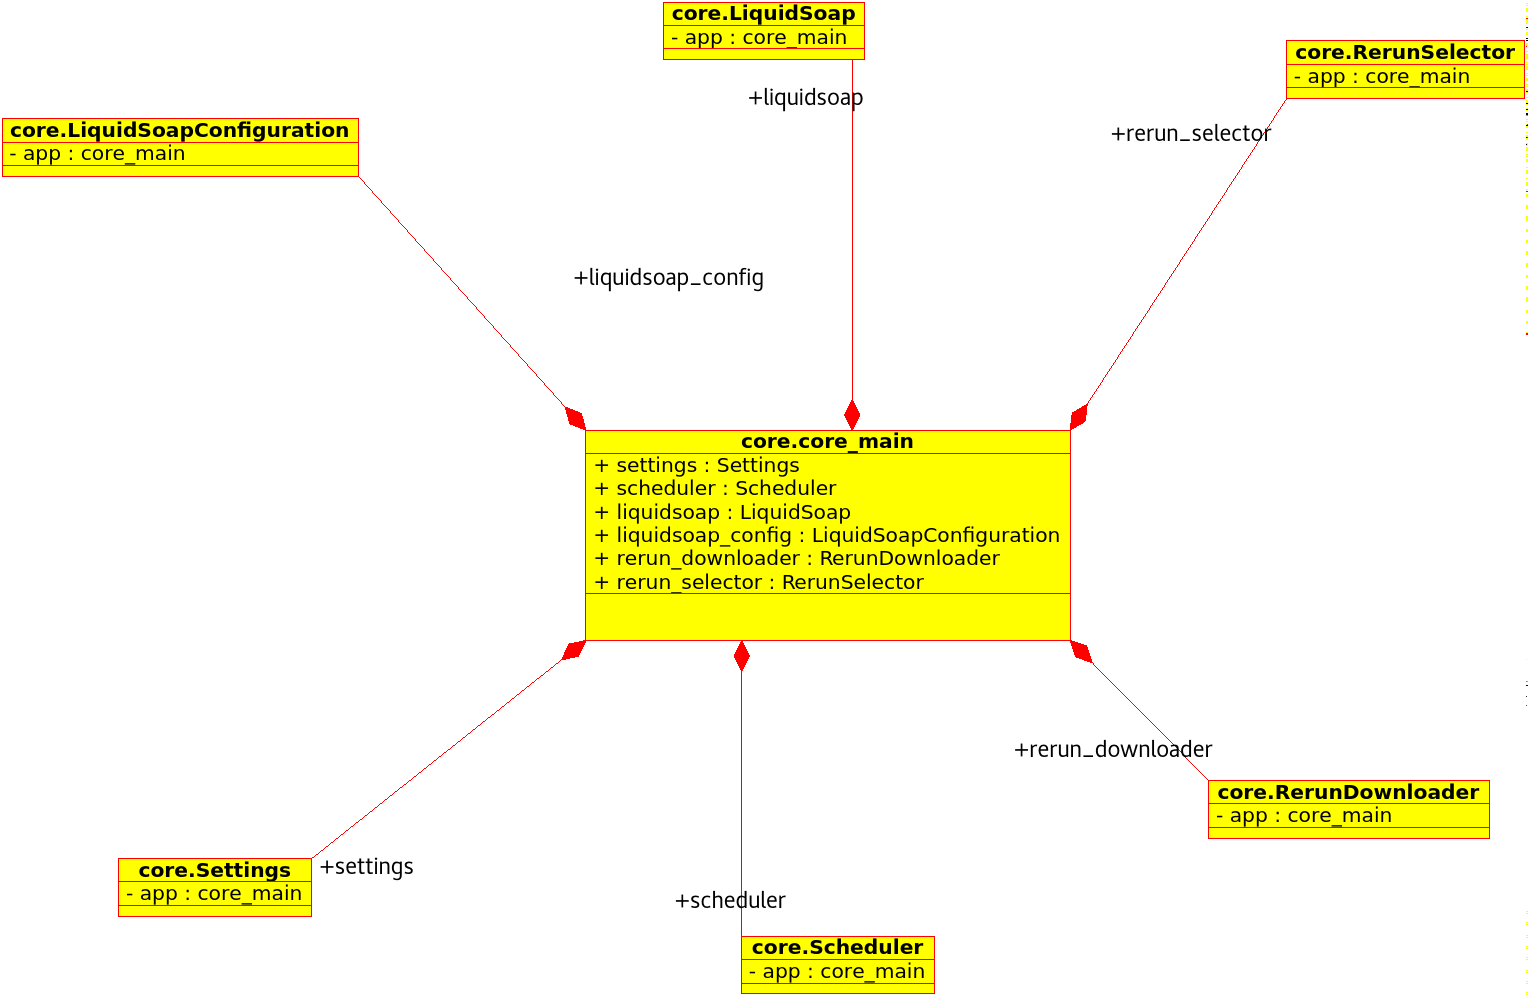
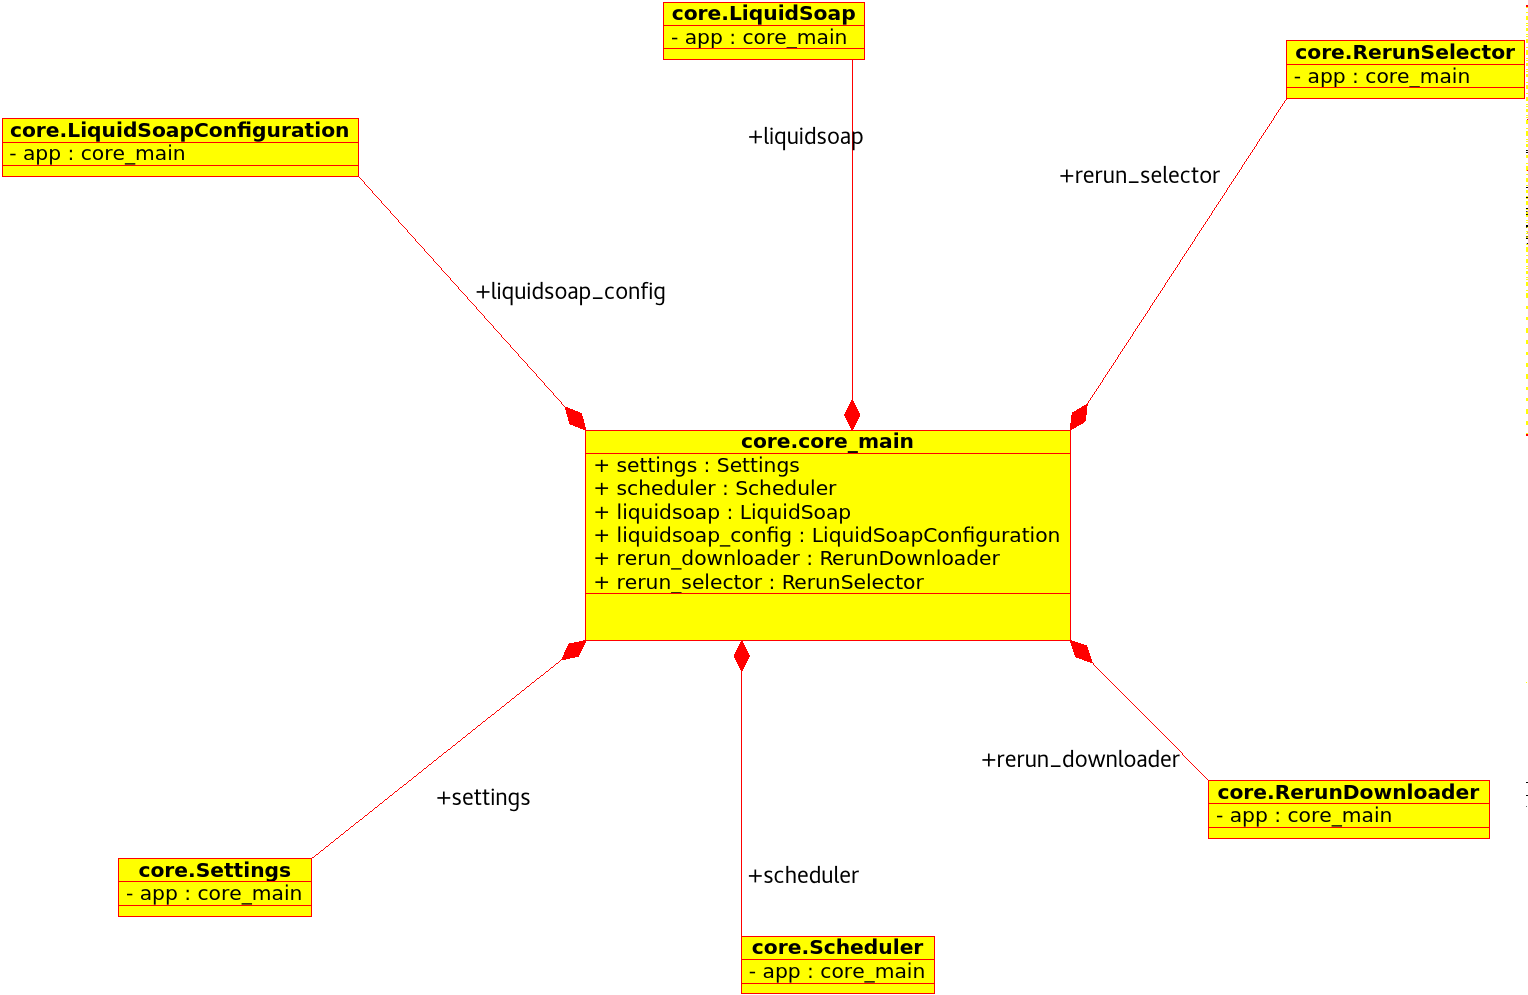
Add descriptions of the classes in core class diagram
Additionally, move some of the labels so they look better
together with the associations.

diff --git a/README.md b/README.md
@@ -34,7 +34,7 @@ Hvis du gjør endringer i UML-diagrammene, MÅ du eksportere nye versjoner av di
 eksporterte diagrammer ikke matcher originalen.
 
 Det er [Umbrello](https://umbrello.kde.org/) som brukes som UML-diagram-verktøy. Ved eksport trenger du bare å velge «Export as images…» og
-eksportere alle diagrammer inn i `uml`-mappa.
+eksportere alle diagrammer inn i `uml`-mappa. Du skal bruke 150 som DPI og huke av «Use folders».
 
 ## Detaljerte krav
 
